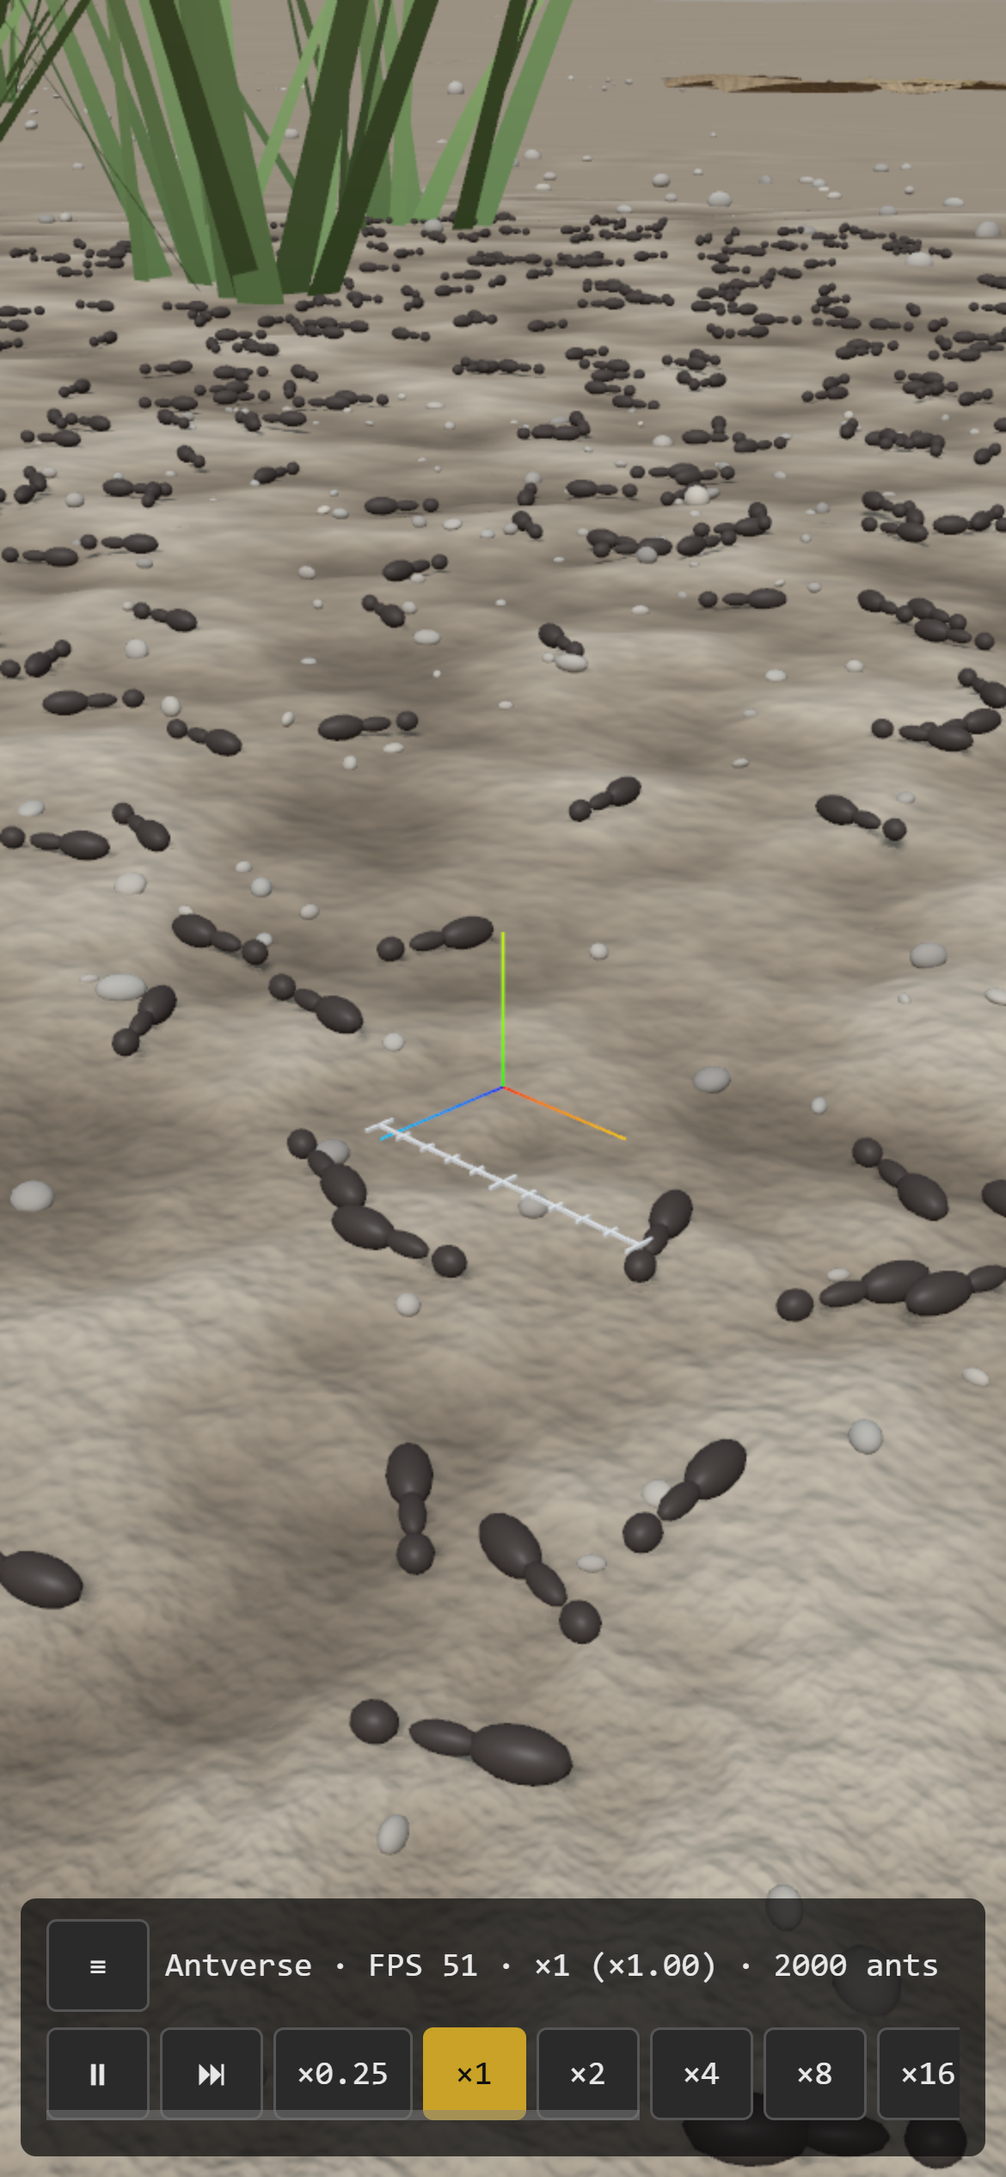
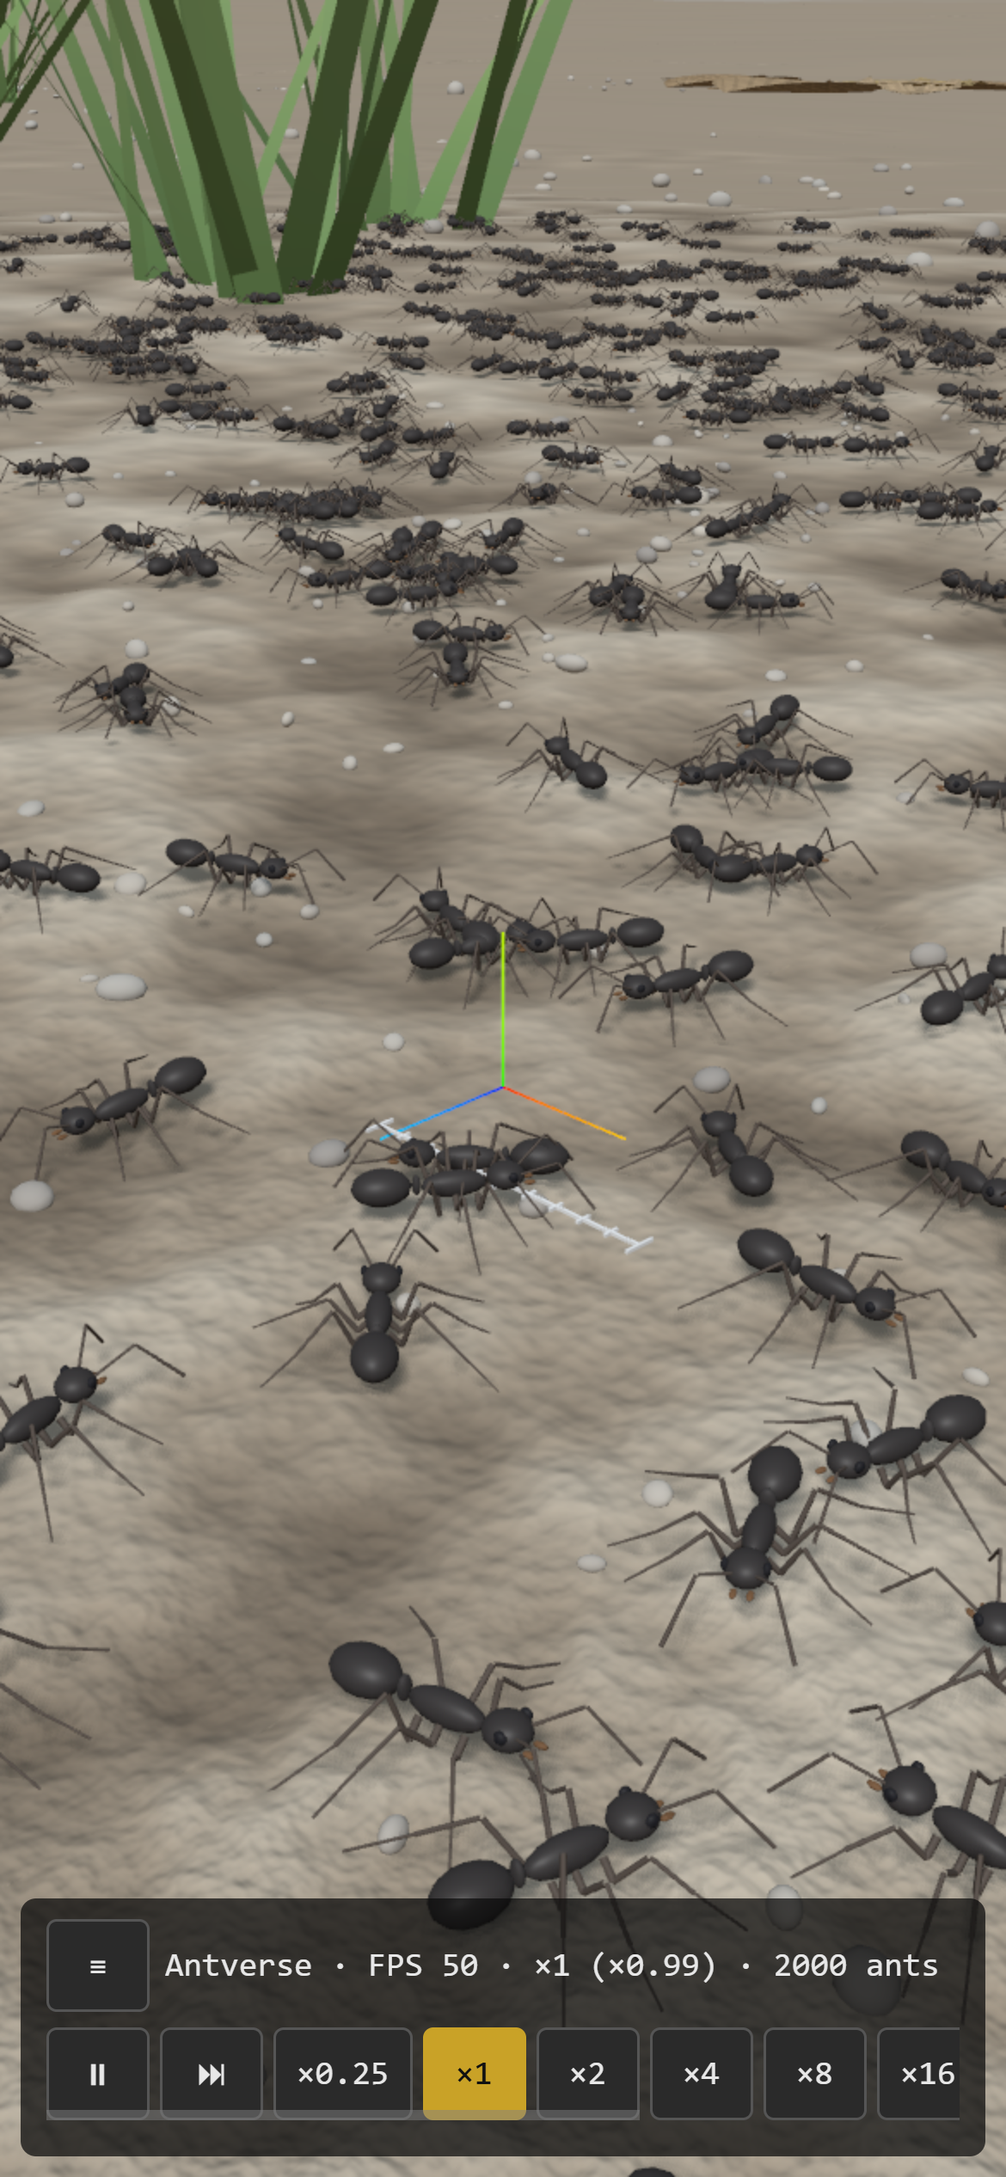
Phase 2 audit: per-rule reproduction tests; fix body underside floor
- add reproduction tests for every behaviour rule (spec requirement):
  explore (OU turning statistics, gait phase advance, walking around a pebble
  taller than maxClimb, turning back at the arena edge), initial placement
  (never on tall objects), body pose (ride height, no underside below the
  support, pitch direction, smoothing time constant)
- fix found by those tests: the body-pose floor sampled the support under
  segment centres, ignoring how pitch and roll move each segment's underside
  point; it now samples at the true underside point. Walking body
  penetration 0.094% -> 0.002% (max 0.23 mm)
- golden determinism hash updated for the intended behaviour change
- docs: Phase 2 report audit section and numbers, ASM-LOC-006 wording

diff --git a/src/sim/rules/explore.test.ts b/src/sim/rules/explore.test.ts
@@ -1,0 +1,110 @@
+/**
+ * Reproduction tests for the exploration rule (ASM-BEH-001, ASM-SEN-002, ASM-LOC-008).
+ */
+
+import { beforeAll, describe, expect, it } from 'vitest';
+import { dexp } from '../../core/dmath.ts';
+import { buildConfig } from '../../config/load.ts';
+import { strideLength } from '../../locomotion/morphology.ts';
+import { World } from '../world.ts';
+import { bodyPoseRange } from './body-pose.ts';
+
+const { config } = buildConfig([{ population: { count: 1 }, world: { arenaSize: 1800 } }]);
+const dt = config.sim.dt;
+let world: World;
+
+beforeAll(() => { world = new World(config); });
+
+/** Put the single ant at (x, z) with heading h and settle its body. */
+function place(w: World, x: number, z: number, h: number): void {
+  const a = w.agents.a;
+  a.posX[0] = x; a.posZ[0] = z; a.heading[0] = h; a.turnRate[0] = 0;
+  bodyPoseRange(w, 0, 1, 1);
+}
+
+describe('exploration: turning is a smooth correlated random walk', () => {
+  it('the turning rate has the configured spread and correlation time (OU process)', () => {
+    const cfg = buildConfig([{ population: { count: 400 } }]).config;
+    const w = new World(cfg);
+    const a = w.agents.a, n = w.agents.highWater;
+    for (let t = 0; t < 120; t++) w.step(); // forget the zero start
+    let s2 = 0, lag = 0, count = 0;
+    const prev = Float64Array.from(a.turnRate.subarray(0, n));
+    for (let t = 0; t < 600; t++) {
+      w.step();
+      for (let i = 0; i < n; i++) {
+        const v = a.turnRate[i]!;
+        s2 += v * v; lag += v * prev[i]!; prev[i] = v; count++;
+      }
+    }
+    const sd = Math.sqrt(s2 / count), rho = lag / s2;
+    expect(sd).toBeGreaterThan(cfg.explore.turnRateSd * 0.9);
+    expect(sd).toBeLessThan(cfg.explore.turnRateSd * 1.1);
+    expect(rho).toBeCloseTo(dexp(-dt / cfg.explore.turnTau), 2);
+  });
+
+  it('advances the gait phase by distance walked / stride length', () => {
+    place(world, 0, 0, 0.3);
+    const a = world.agents.a;
+    const x0 = a.posX[0]!, z0 = a.posZ[0]!, p0 = a.gaitPhase[0]!;
+    world.step();
+    const d = Math.sqrt((a.posX[0]! - x0) ** 2 + (a.posZ[0]! - z0) ** 2);
+    const dp = (a.gaitPhase[0]! - p0 + 1) % 1;
+    expect(d).toBeCloseTo(a.speed[0]! * dt, 4); // positions are float32
+    expect(dp).toBeCloseTo(d / strideLength(config, a.speed[0]!), 5); // gaitPhase is float32
+  });
+});
+
+describe('exploration: obstacles and arena edge', () => {
+  it('does not walk onto a pebble taller than maxClimb; walks around it instead', () => {
+    const T = world.terrain, P = T.pebbles;
+    // The tallest pebble, approached head-on from 12 mm outside its rim.
+    let k = 0;
+    for (let i = 1; i < P.count; i++) if (P.center[3 * i + 1]! - T.groundHeight(P.center[3 * i]!, P.center[3 * i + 2]!) > P.center[3 * k + 1]! - T.groundHeight(P.center[3 * k]!, P.center[3 * k + 2]!)) k = i;
+    const cx = P.center[3 * k]!, cz = P.center[3 * k + 2]!, r = P.radii[3 * k]!;
+    expect(T.supportHeight(cx, cz) - T.groundHeight(cx, cz)).toBeGreaterThan(config.explore.maxClimb);
+    const sx = cx - (r + 12), sz = cz;
+    place(world, sx, sz, 0); // heading 0 = +X, straight at the pebble
+    const a = world.agents.a;
+    let maxRise = 0;
+    for (let t = 0; t < 4 / dt; t++) {
+      world.step();
+      maxRise = Math.max(maxRise, T.supportHeight(a.posX[0]!, a.posZ[0]!) - T.groundHeight(a.posX[0]!, a.posZ[0]!));
+    }
+    expect(maxRise).toBeLessThanOrEqual(config.explore.maxClimb);
+    // It kept walking (around), not stuck facing the pebble.
+    expect(Math.hypot(a.posX[0]! - sx, a.posZ[0]! - sz)).toBeGreaterThan(20);
+  });
+
+  it('turns back at the arena edge and never leaves the arena', () => {
+    const half = config.world.arenaSize / 2;
+    place(world, half - 3, 0, 0); // facing straight out
+    const a = world.agents.a;
+    let path = 0;
+    for (let t = 0; t < 3 / dt; t++) {
+      const x = a.posX[0]!, z = a.posZ[0]!;
+      world.step();
+      path += Math.hypot(a.posX[0]! - x, a.posZ[0]! - z);
+      expect(Math.abs(a.posX[0]!)).toBeLessThanOrEqual(half);
+      expect(Math.abs(a.posZ[0]!)).toBeLessThanOrEqual(half);
+    }
+    // It turned away from the edge and kept walking (along or away from it), not stuck facing out.
+    expect(Math.cos(a.heading[0]!)).toBeLessThan(0.9);
+    expect(path).toBeGreaterThan(30);
+  });
+});
+
+describe('initial placement', () => {
+  it('places every worker in the arena and never on an object taller than maxClimb', () => {
+    const cfg = buildConfig([{ population: { count: 2000 }, world: { arenaSize: 1800 } }]).config;
+    const w = new World(cfg);
+    const a = w.agents.a, T = w.terrain, half = cfg.world.arenaSize / 2;
+    expect(w.agents.alive).toBe(2000);
+    for (let i = 0; i < w.agents.highWater; i++) {
+      expect(Math.abs(a.posX[i]!)).toBeLessThanOrEqual(half);
+      expect(T.supportHeight(a.posX[i]!, a.posZ[i]!) - T.groundHeight(a.posX[i]!, a.posZ[i]!)).toBeLessThanOrEqual(cfg.explore.maxClimb);
+      expect(a.speed[i]!).toBeGreaterThanOrEqual(cfg.locomotion.speed * (1 - cfg.locomotion.speedSpread) - 1e-9);
+      expect(a.speed[i]!).toBeLessThanOrEqual(cfg.locomotion.speed * (1 + cfg.locomotion.speedSpread) + 1e-9);
+    }
+  });
+});

diff --git a/src/sim/rules/body-pose.test.ts b/src/sim/rules/body-pose.test.ts
@@ -1,0 +1,74 @@
+/**
+ * Reproduction tests for the body-pose rule (ASM-LOC-005, ASM-LOC-006).
+ */
+
+import { describe, expect, it } from 'vitest';
+import { quatRotate, type Vec3 } from '../../core/quat.ts';
+import { buildConfig } from '../../config/load.ts';
+import { buildMorphology } from '../../locomotion/morphology.ts';
+import { World } from '../world.ts';
+import { bodyPoseRange } from './body-pose.ts';
+
+const { config } = buildConfig([{ population: { count: 1500 }, world: { arenaSize: 1800 } }]);
+
+describe('body pose on the terrain', () => {
+  const world = new World(config);
+  const a = world.agents.a, T = world.terrain, m = buildMorphology(config);
+  const lc = config.locomotion;
+
+  it('rides rideHeight above the support on level ground, with a unit quaternion', () => {
+    // Settled spawn (alpha = 1): on bare level soil the mesosoma sits at support + rideHeight.
+    let checked = 0;
+    for (let i = 0; i < world.agents.highWater; i++) {
+      const x = a.posX[i]!, z = a.posZ[i]!;
+      if (Math.abs(a.pitch[i]!) > 0.02) continue; // level spots only
+      const yC = T.supportHeight(x, z);
+      if (a.posY[i]! - yC > lc.rideHeight + 1e-6) continue; // floor-raised by a bump under head or gaster
+      expect(a.posY[i]! - yC).toBeCloseTo(lc.rideHeight, 6);
+      const q = a.rot.subarray(4 * i, 4 * i + 4);
+      expect(Math.hypot(q[0]!, q[1]!, q[2]!, q[3]!)).toBeCloseTo(1, 6);
+      checked++;
+    }
+    expect(checked).toBeGreaterThan(100);
+  });
+
+  it('head, mesosoma and gaster undersides are never below the support under them', () => {
+    // Checked where the rule guarantees it: the underside point below each segment centre,
+    // against the support directly under that point.
+    const v: Vec3 = [0, 0, 0];
+    let worst = Infinity;
+    for (let i = 0; i < world.agents.highWater; i++) {
+      for (const s of [m.head, m.mesosoma, m.gaster]) {
+        quatRotate(a.rot, 4 * i, s.cx, s.cy - s.h / 2, 0, v);
+        const px = a.posX[i]! + v[0], py = a.posY[i]! + v[1], pz = a.posZ[i]! + v[2];
+        worst = Math.min(worst, py - T.supportHeight(px, pz));
+      }
+    }
+    console.log(`[body-pose] worst underside clearance ${worst.toFixed(4)} mm`);
+    // Tolerance: roll (the underside point moves sideways) and float32 storage.
+    expect(worst).toBeGreaterThan(-0.05);
+  });
+
+  it('pitches nose-up when the support under the head is higher than under the gaster', () => {
+    let agree = 0, total = 0;
+    for (let i = 0; i < world.agents.highWater; i++) {
+      const h = a.heading[i]!, x = a.posX[i]!, z = a.posZ[i]!, c = Math.cos(a.pitch[i]!);
+      const fx = Math.cos(h), fz = -Math.sin(h);
+      const yF = T.supportHeight(x + fx * m.head.cx * c, z + fz * m.head.cx * c);
+      const yB = T.supportHeight(x + fx * m.gaster.cx * c, z + fz * m.gaster.cx * c);
+      if (Math.abs(yF - yB) > 0.1) { total++; if (Math.sign(a.pitch[i]!) === Math.sign(yF - yB)) agree++; }
+    }
+    expect(total).toBeGreaterThan(20);
+    expect(agree / total).toBeGreaterThan(0.95);
+  });
+
+  it('follows a change of target with the configured time constant', () => {
+    const w = new World(buildConfig([{ population: { count: 1 } }]).config);
+    const b = w.agents.a;
+    bodyPoseRange(w, 0, 1, 1);
+    const target = b.posY[0]!;
+    b.posY[0] = target + 1; // lift the body 1 mm, then let one step pull it back
+    bodyPoseRange(w, 0, 1, w.poseAlpha);
+    expect(b.posY[0]! - target).toBeCloseTo(1 - w.poseAlpha, 5); // posY is float32
+  });
+});

diff --git a/src/sim/rules/body-pose.ts b/src/sim/rules/body-pose.ts
@@ -33,27 +33,39 @@ export function bodyPoseRange(world: World, from: number, to: number, alpha: num
     if ((a.flags[s]! & AgentFlag.ALIVE) === 0) continue;
     const x = a.posX[s]!, z = a.posZ[s]!, h = a.heading[s]!;
     const fx = dcos(h), fz = -dsin(h);
-    // Support under the mesosoma, head and gaster (the latter two also set the pitch).
+    // Support under the mesosoma, head and gaster (the latter two also set the pitch), sampled where
+    // the segments are with the current pitch (a pitched body is horizontally shorter).
+    const cp0 = dcos(a.pitch[s]!);
+    const hx = head.cx * cp0, gx = gaster.cx * cp0;
     const yC = terrain.supportHeight(x, z);
-    const yF = terrain.supportHeight(x + fx * head.cx, z + fz * head.cx);
-    const yB = terrain.supportHeight(x + fx * gaster.cx, z + fz * gaster.cx);
+    const yF = terrain.supportHeight(x + fx * hx, z + fz * hx);
+    const yB = terrain.supportHeight(x + fx * gx, z + fz * gx);
     terrain.ground(x, z, hBody, slope);
     // Slope towards the body's right (+Z body axis = (sin h, cos h) on the ground).
     const right = slope.dx * dsin(h) + slope.dz * dcos(h);
-    const pitchT = datan2(yF - yB, head.cx - gaster.cx);
+    const pitchT = datan2(yF - yB, hx - gx);
     const rollT = -datan(right);
     const yT = Math.max(yC, (yF + yB) * 0.5) + lc.rideHeight;
     let y = a.posY[s]! + alpha * (yT - a.posY[s]!);
     const pitch = a.pitch[s]! + alpha * (pitchT - a.pitch[s]!);
     const roll = a.roll[s]! + alpha * (rollT - a.roll[s]!);
-    // Never let the head, mesosoma or gaster underside sink into what is below it. A segment at
-    // body-axis offset c with underside depth d sits at y + c·sin(pitch) - d·cos(pitch).
-    const sp = dsin(pitch), cp = dcos(pitch);
+    // Never let the head, mesosoma or gaster underside sink into what is below it. The underside
+    // point (c, −d, 0) of a segment, rotated by roll r then pitch θ, lies c·cosθ + d·cos r·sinθ ahead
+    // of and −d·sin r to the right of the mesosoma centre, at height y + c·sinθ − d·cos r·cosθ.
+    // The support is sampled there (reusing the earlier samples when the point barely moved).
+    const sp = dsin(pitch), cp = dcos(pitch), sr = dsin(roll), cr = dcos(roll);
+    const rx = dsin(h), rz = dcos(h);
+    const under = (c: number, d: number, sampledAt: number, sampled: number): number => {
+      const ahead = c * cp + d * cr * sp, side = -d * sr;
+      const moved = Math.abs(ahead - sampledAt) > lc.swingClearance || Math.abs(side) > lc.swingClearance;
+      const sup = moved ? terrain.supportHeight(x + fx * ahead + rx * side, z + fz * ahead + rz * side) : sampled;
+      return sup - c * sp + d * cr * cp + lc.swingClearance;
+    };
     const floor = Math.max(
       yC + lc.minRideHeight,
-      yF - head.cx * sp + headDrop * cp + lc.swingClearance,
-      yC + mesoDrop * cp + lc.swingClearance,
-      yB - gaster.cx * sp + gasterDrop * cp + lc.swingClearance,
+      under(head.cx, headDrop, hx, yF),
+      under(0, mesoDrop, 0, yC),
+      under(gaster.cx, gasterDrop, gx, yB),
     );
     if (y < floor) y = floor;
     a.posY[s] = y;

diff --git a/src/sim/population.ts b/src/sim/population.ts
@@ -37,5 +37,7 @@ export function spawnWorkers(world: World, count: number): void {
     a.gaitPhase[s] = r(K.PHASE);
     a.speed[s] = lc.speed * (1 + lc.speedSpread * (r(K.SPEED) * 2 - 1));
   }
+  // Settle twice: the second pass samples the support where the first pass's pitch put the segments.
+  bodyPoseRange(world, first, agents.highWater, 1);
   bodyPoseRange(world, first, agents.highWater, 1);
 }

diff --git a/docs/reports/phase-2.md b/docs/reports/phase-2.md
@@ -17,7 +17,7 @@
 | 並列シミュレーション | エージェントを共有メモリに置き、最大 8 スレッドでスロットの範囲を分担する。結果は 1 スレッドとビット単位で一致する |
 | 地形の追加 | `solidAt(x, y, z)`：その点が固体の中かを判定する（落葉の縁の下の空間は固体ではない） |
 | ツール | アプリに個体追従（`antverse.followAnt`）、`browser-run.ts walk`、`scripts/make-gif.py` |
-| テスト | 18 ファイル・392 件、すべて合格（81 秒） |
+| テスト | 20 ファイル・401 件、すべて合格。各行動ルールに専用の再現テストあり（探索歩行・胴体の姿勢・初期配置） |
 
 Phase 0〜1 のダミー歩行は削除しました。
 
@@ -33,10 +33,10 @@ Phase 0〜1 のダミー歩行は削除しました。
 | 立脚中の足の滑り | 0.02 mm 以内 | ✅ **0 mm** |
 | 遊脚の足が表面より下に入る | 0 | ✅ 0（5,509 回は、表面に沿って持ち上げて回避した） |
 | 足首が固体の中に入る | 0 | ✅ 0 |
-| 膝が固体の中に入る | 0.05% 未満 | ✅ 0.045%（77 回。いずれも大きな小石・葉の縁に胴体が接した状況。登る動きが範囲外のため残る） |
-| 脚が届かない（伸びきり） | 1% 未満 | ✅ 0.67% |
+| 膝が固体の中に入る | 0.05% 未満 | ✅ 0.042%（73 回。いずれも大きな小石・葉の縁に胴体が接した状況。登る動きが範囲外のため残る） |
+| 脚が届かない（伸びきり） | 1% 未満 | ✅ 0.65% |
 | 三脚の交代 | 2 組が同時に遊脚にならない | ✅ 違反 0。接地している脚は常に 3 本以上 |
-| 胴体のめり込み | 0.1% 未満 | ✅ 0.094%（最大 1.6 mm。上と同じく大きな物体の縁） |
+| 胴体のめり込み | 0.1% 未満 | ✅ 0.002%（2 回、最大 0.23 mm。完了後の監査で見つけた判定位置の誤りを修正した後の値。§補足） |
 | 平地での合成テスト | 伸びきりゼロ | ✅ 直進・曲線（1.6 rad/s）・その場旋回（3 / 6 rad/s）のすべてで 0。脚の長さの 77〜85% 以内 |
 
 ### 性能（[phase-2-webgpu.csv](bench/phase-2-webgpu.csv)、[phase-2-sim-node.csv](bench/phase-2-sim-node.csv)）
@@ -52,7 +52,7 @@ Phase 0〜1 のダミー歩行は削除しました。
 - **プロジェクトの性能目標「働きアリ 1 万体で 60 fps」を、歩くアリと地形の込みで達成**しました（RTX 5070 Ti）。
 - ボトルネックは 5 万体以上ではシミュレーションです。1 体あたり 4 回の足場の問い合わせで、1 スレッドあたり約 3.2 µs かかります。10 万体では GPU（23.7 ms）も効いてきます。
 - メイン CPU の約 10 ms は、主に ultra 画質の地形チャンク（約 700 個とその影）です。脚のリグは 1 体あたり 23 µs と軽いです。
-- 並列で動かした World と 1 スレッドのヘッドレス実行のハッシュは一致しました（1 万体・8 スレッド）。決定論の基準ハッシュは、歩行ルールの導入で意図的に `088d0add` に更新しました。テストの個体数は 300 体にして、時間を短縮しています。
+- 並列で動かした World と 1 スレッドのヘッドレス実行のハッシュは一致しました（1 万体・8 スレッド）。決定論の基準ハッシュは、歩行ルールの導入と、監査後の胴体の姿勢の修正で意図的に更新しました（`088d0add` → `8e83cdfd`）。テストの個体数は 300 体にして、時間を短縮しています。
 
 ## 3. スクリーンショットと動き（[phase-2/](phase-2/)）
 
@@ -99,8 +99,17 @@ Phase 3 は、フェロモンと二重橋実験です。
 3. **「試行の大多数で収束」の数値基準**: 試行数と閾値を決めさせてください。
    - 提案: 50 試行。各試行で、終了時に短い経路を通る交通量の割合が 80% を超えれば「短い経路に収束」とし、それが試行の 80% 以上で起きれば合格。
 
+## 補足：完了後の監査で直したこと（2026-10-11）
+
+- **行動ルールに専用の再現テストがなかった**（仕様の「やってはいけないこと」に違反）。次の 9 件を追加した。
+  - 探索歩行: 旋回の揺らぎの統計と相関時間、歩行位相の進み方、高い小石を登らずに迂回すること、アリーナの縁で反転すること
+  - 初期配置: 登れない高さの物体の上に置かないこと
+  - 胴体の姿勢: 体高、下面のめり込みなし、ピッチの向き、追従の時定数
+- **そのテストで見つかった不具合**: 胴体の下面の判定位置が、傾き（ピッチ・ロール）による前後左右のずれを無視していた。下面の点の正しい位置で足場を探るように直し、歩行中の胴体のめり込みが 0.094% → 0.002% に減った。1 スレッドのコストは 1 万体で 35 → 39.5 ms/tick。
+
 ## 既知の制約
 
-- 背丈より高い障害物（大きな小石、葉の反り上がった縁）は登らずに避けます。そのとき胴体が縁に触れて、膝の 0.045% と胴体の 0.094% が固体に接します。垂直面の歩行（草を登る動きを含む）を入れる段階で解消する予定です。
+- 背丈より高い障害物（大きな小石、葉の反り上がった縁）は登らずに避けます。そのとき胴体が縁に触れて、膝の 0.042% が固体に接します。垂直面の歩行（草を登る動きを含む）を入れる段階で解消する予定です。
+- 中距離（画面上で 12〜60 px）の個体は脚を焼き込んだ姿勢のまま動くので、足が止まったまま滑っているように見えます。
 - 草の葉は歩行の障害物として扱っておらず、アリは葉の根元をすり抜けます（Phase 2 の範囲外）。
 - GitHub Pages とスマホでは共有メモリが使えないため、シミュレーションは 1 スレッドで動きます（2,000 体で約 6 ms/tick。スマホでは実時間より遅くなることがあります）。

diff --git a/docs/BIOLOGY.md b/docs/BIOLOGY.md
@@ -102,7 +102,7 @@
 
 ### ASM-LOC-006 胴体の姿勢の追従
 - **値**: 時定数 0.05 s。ピッチは頭部と腹部の下の足場の高さから、ロールは体長の 1/4 で帯域制限した地面の傾きから決める
-- **理由**: 胴体は硬く、細かな凹凸は脚が吸収するので、胴体は大きな起伏にだけ追従する。
+- **理由**: 胴体は硬く、細かな凹凸は脚が吸収するので、胴体は大きな起伏にだけ追従する。頭部・中胸・腹部の下面の点（ピッチとロールで前後左右にずれる位置）が、その真下の足場より下に入らないよう押し上げる。
 - **検証**: 起伏のある地面での側面撮影。
 - **使用箇所**: `locomotion.poseSmoothing`
 
